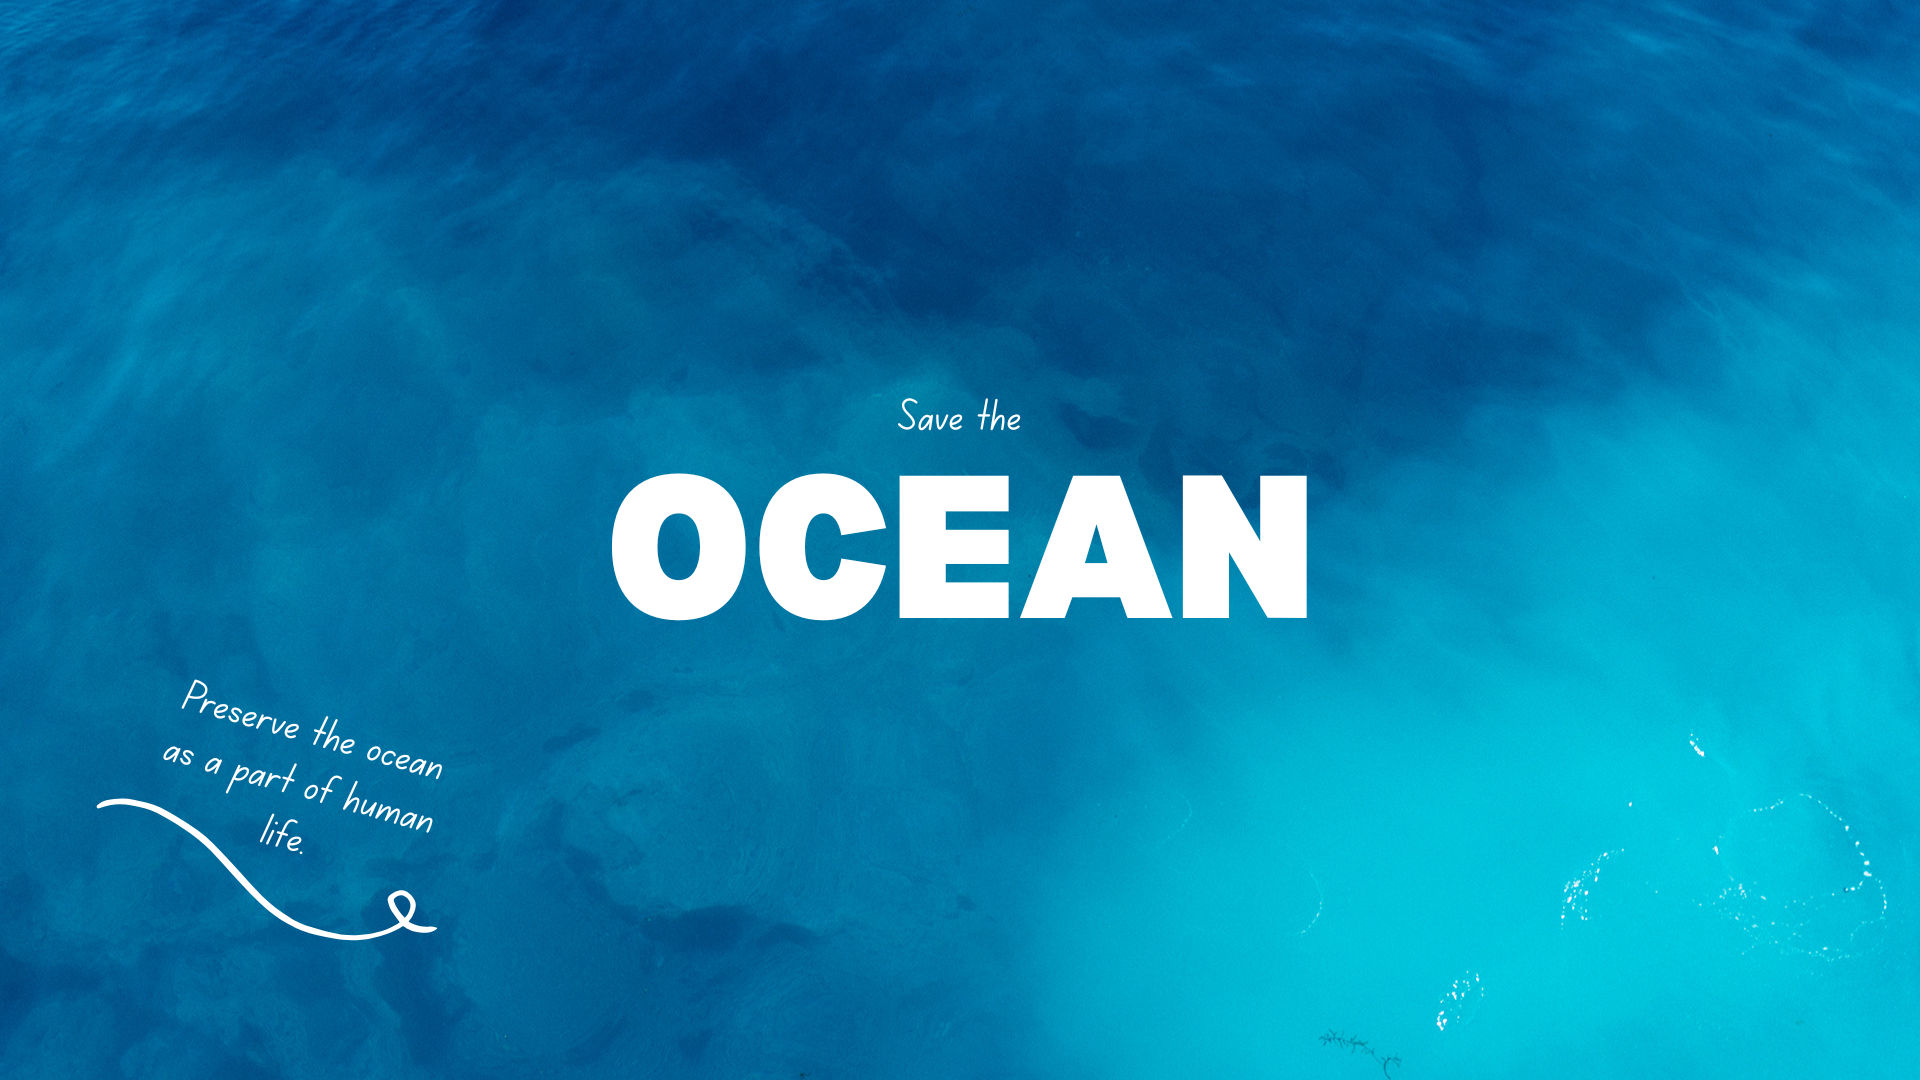
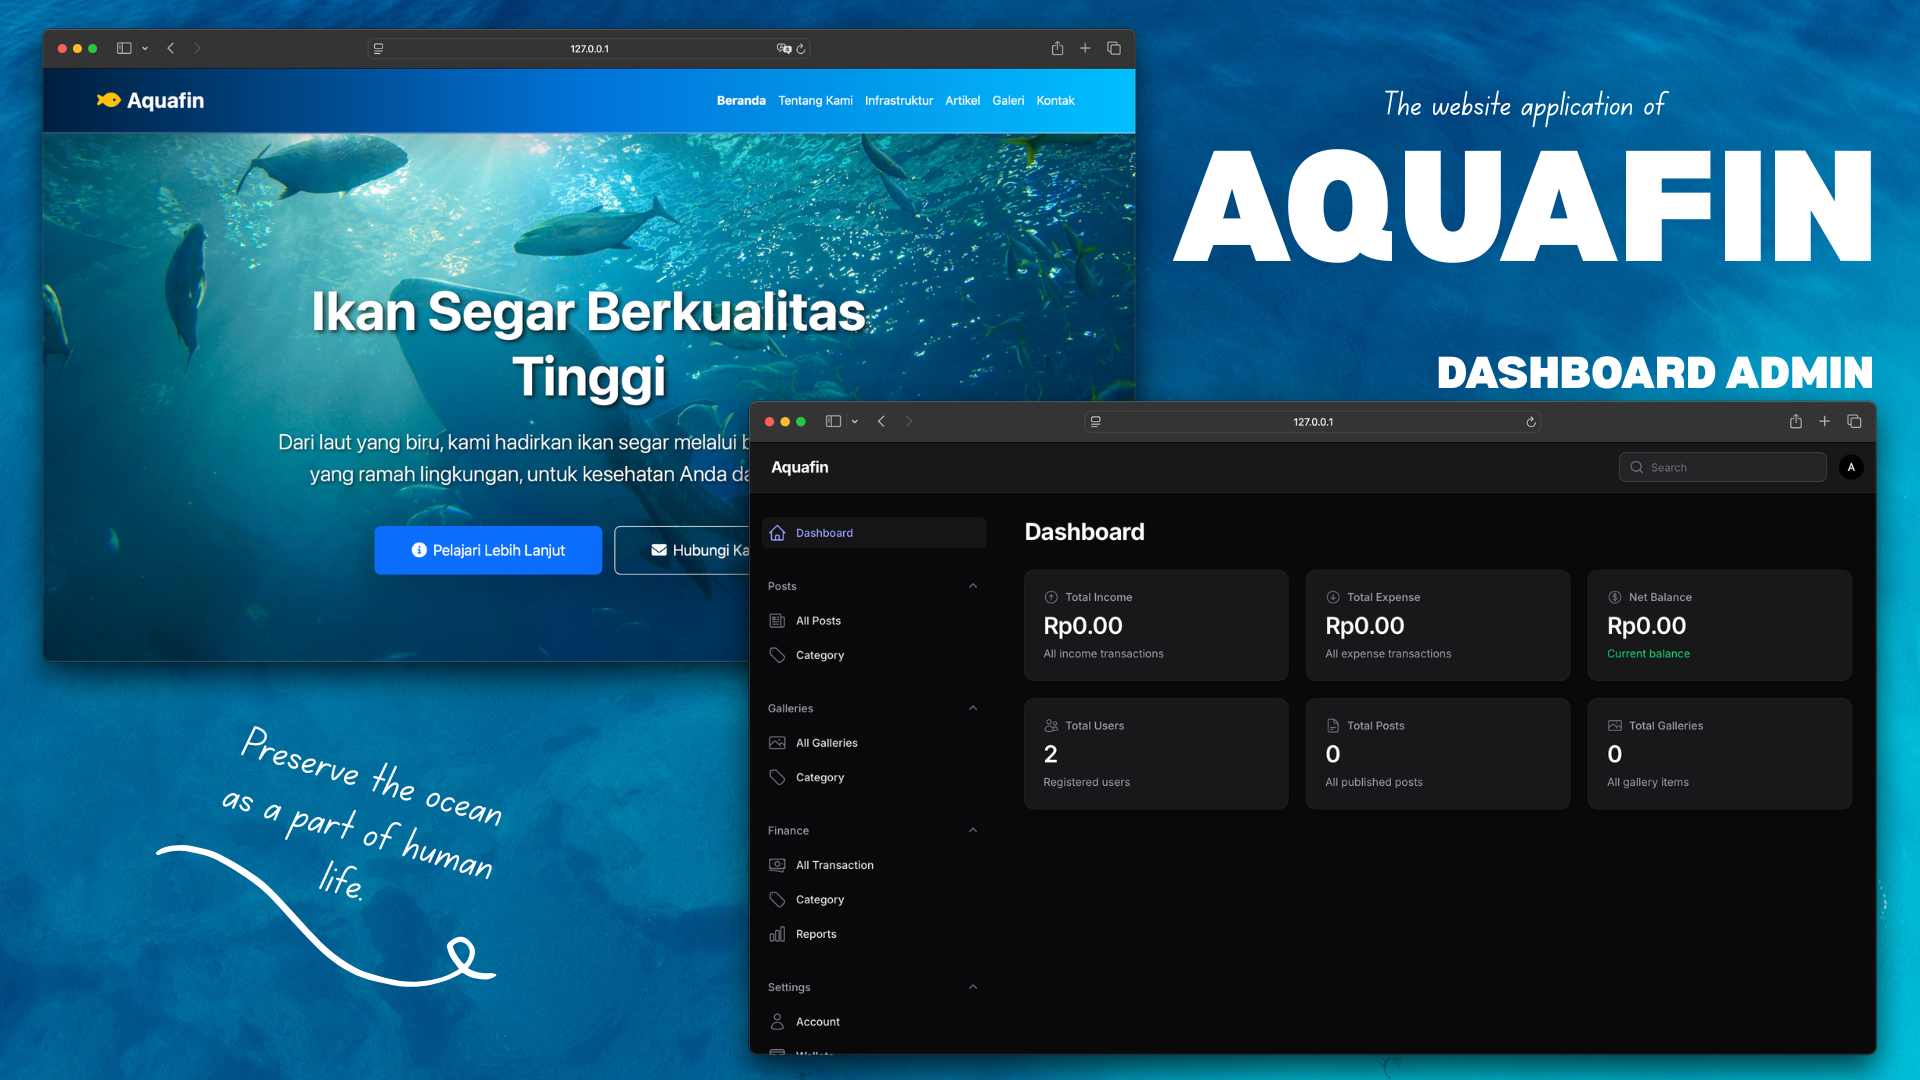
Removed GraphQL skill and updated skills data

diff --git a/src/lib/data/skills.ts b/src/lib/data/skills.ts
@@ -40,11 +40,6 @@ export const skills: Skill[] = [
       "https://cdn.jsdelivr.net/gh/devicons/devicon/icons/tailwindcss/tailwindcss-original.svg",
   },
   {
-    name: "GraphQL",
-    logoUrl:
-      "https://cdn.jsdelivr.net/gh/devicons/devicon/icons/graphql/graphql-plain.svg",
-  },
-  {
     name: "Node.js",
     logoUrl:
       "https://cdn.jsdelivr.net/gh/devicons/devicon/icons/nodejs/nodejs-original.svg",
